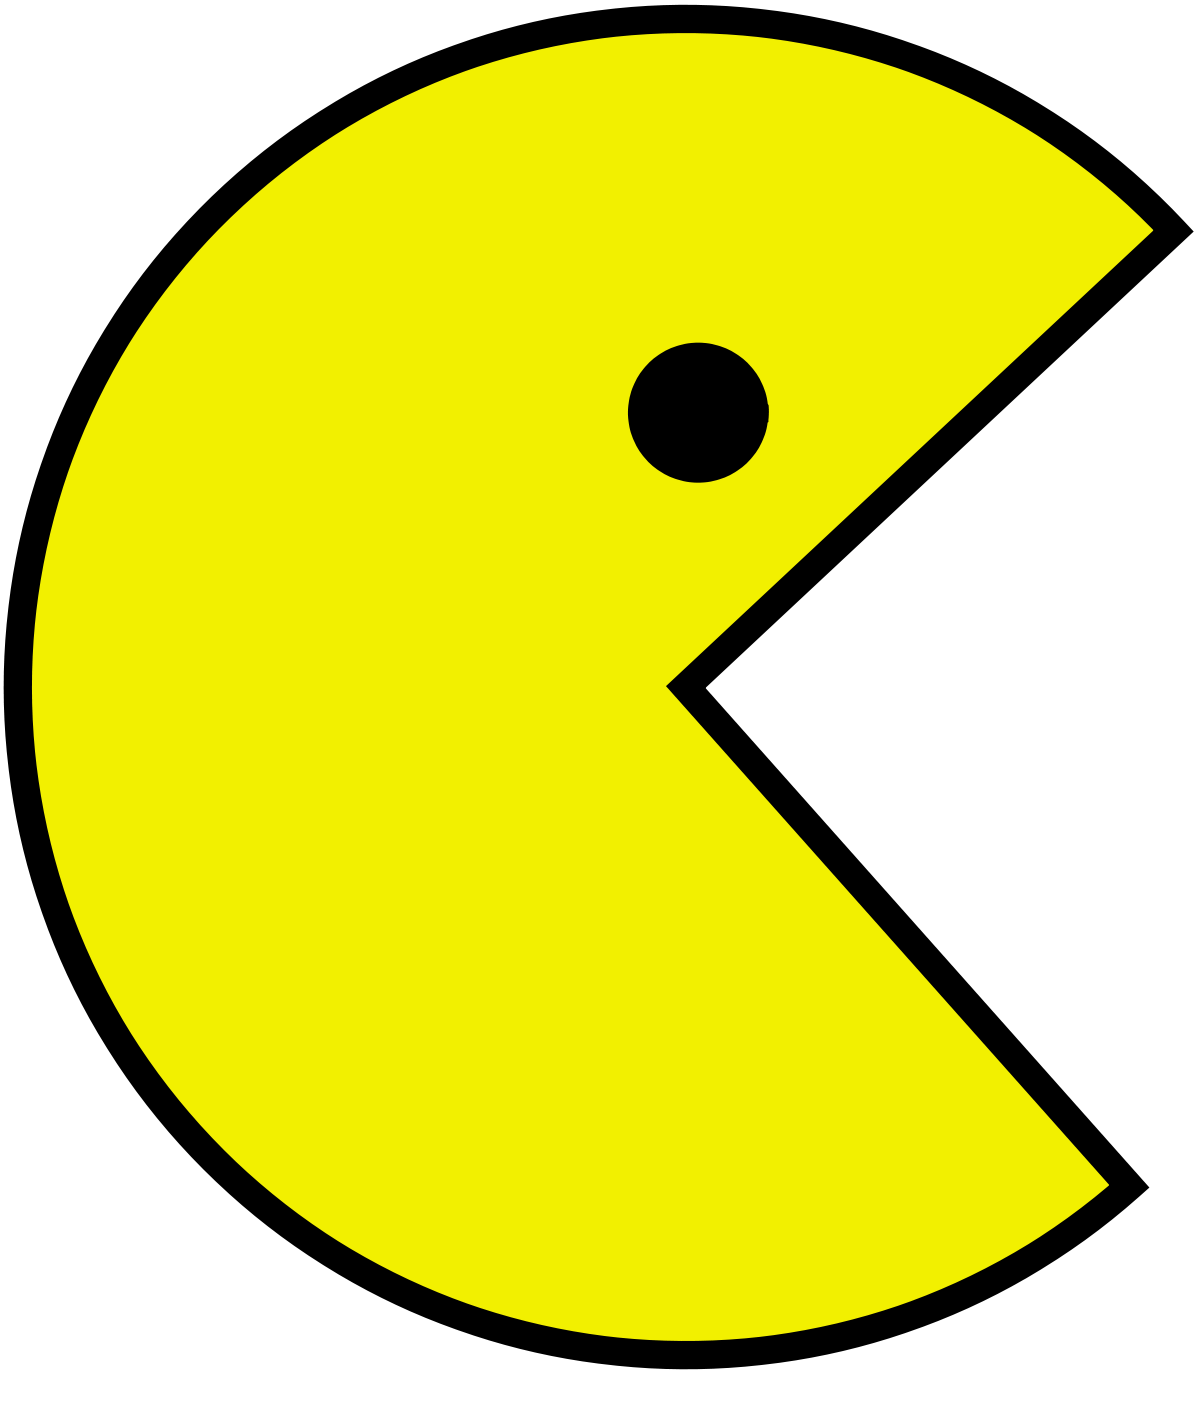
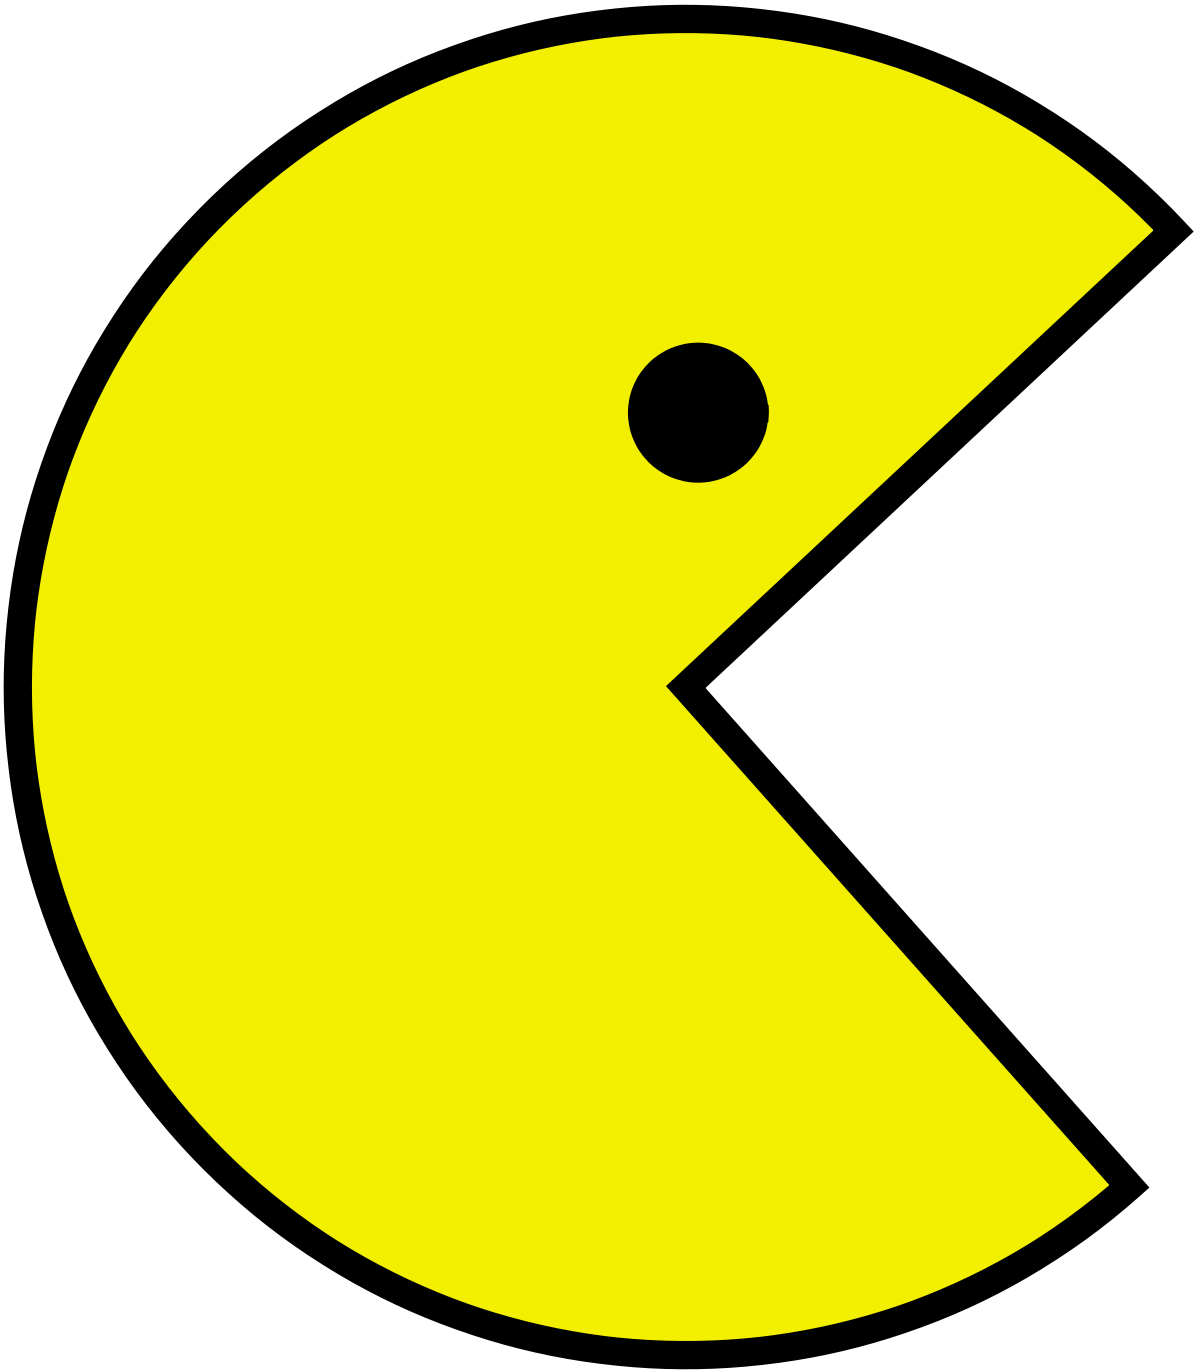
added copyright and margined img at index

diff --git a/index.html b/index.html
@@ -75,7 +75,7 @@
             <li><a href="https://en.wikipedia.org/wiki/Billy_Mitchell_(gamer)" target="_black">Billy Mitchel</a> (record score)</li>
         </ul>
 
-        <h3 id="name">Sander Lauwers</h2>
+        <h3 id="name">Sander Lauwers ©</h2>
     </div>
 </body>
 </html>

diff --git a/css/index.css b/css/index.css
@@ -28,9 +28,9 @@ h1, h2, h3 {
 
 #img {
     position: absolute;
-    top: 0;
-    right: 0;
-    width: 35%;
+    top: 0.4vw;
+    right: 0.4vw;
+    width: 34.6%;
 }
 
 @media screen and (min-width: 1400px) {
